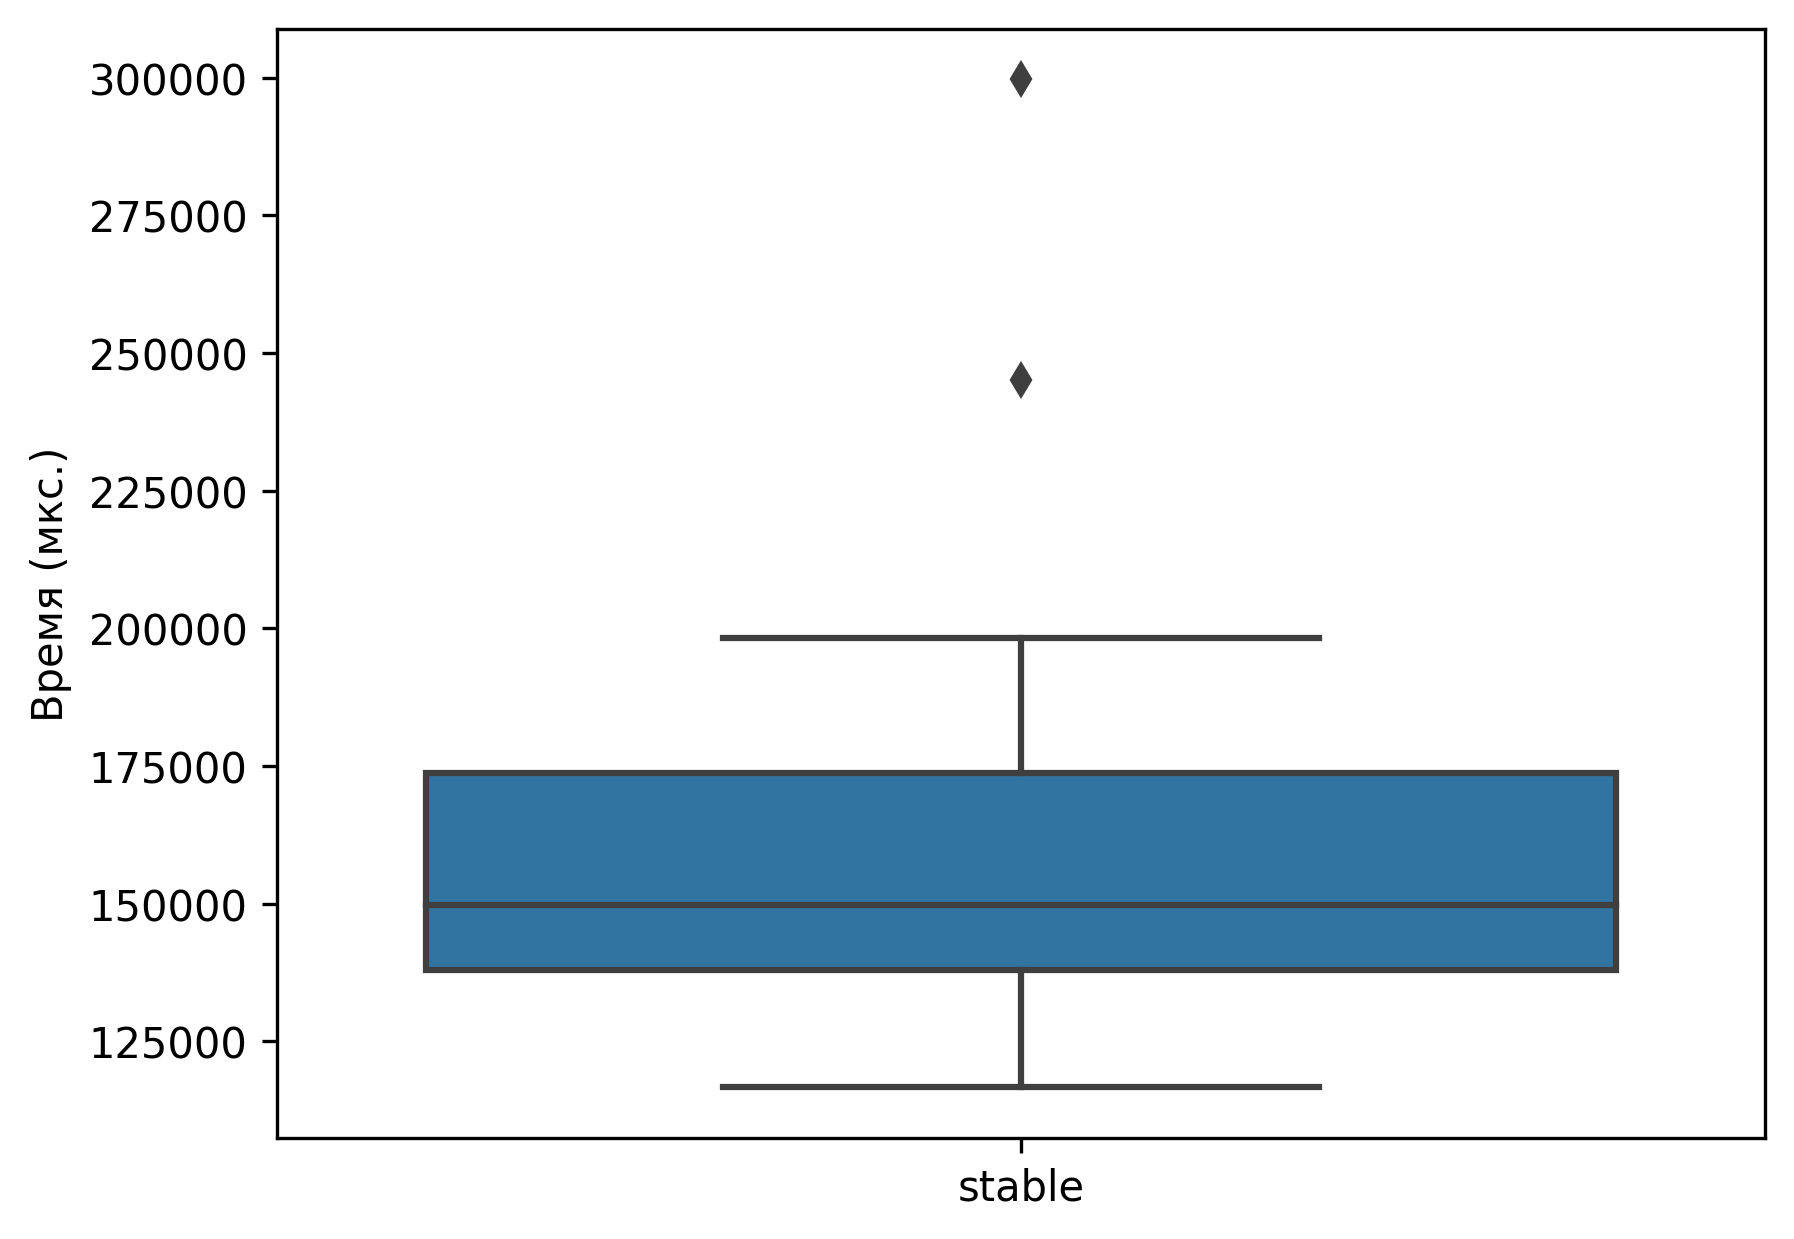
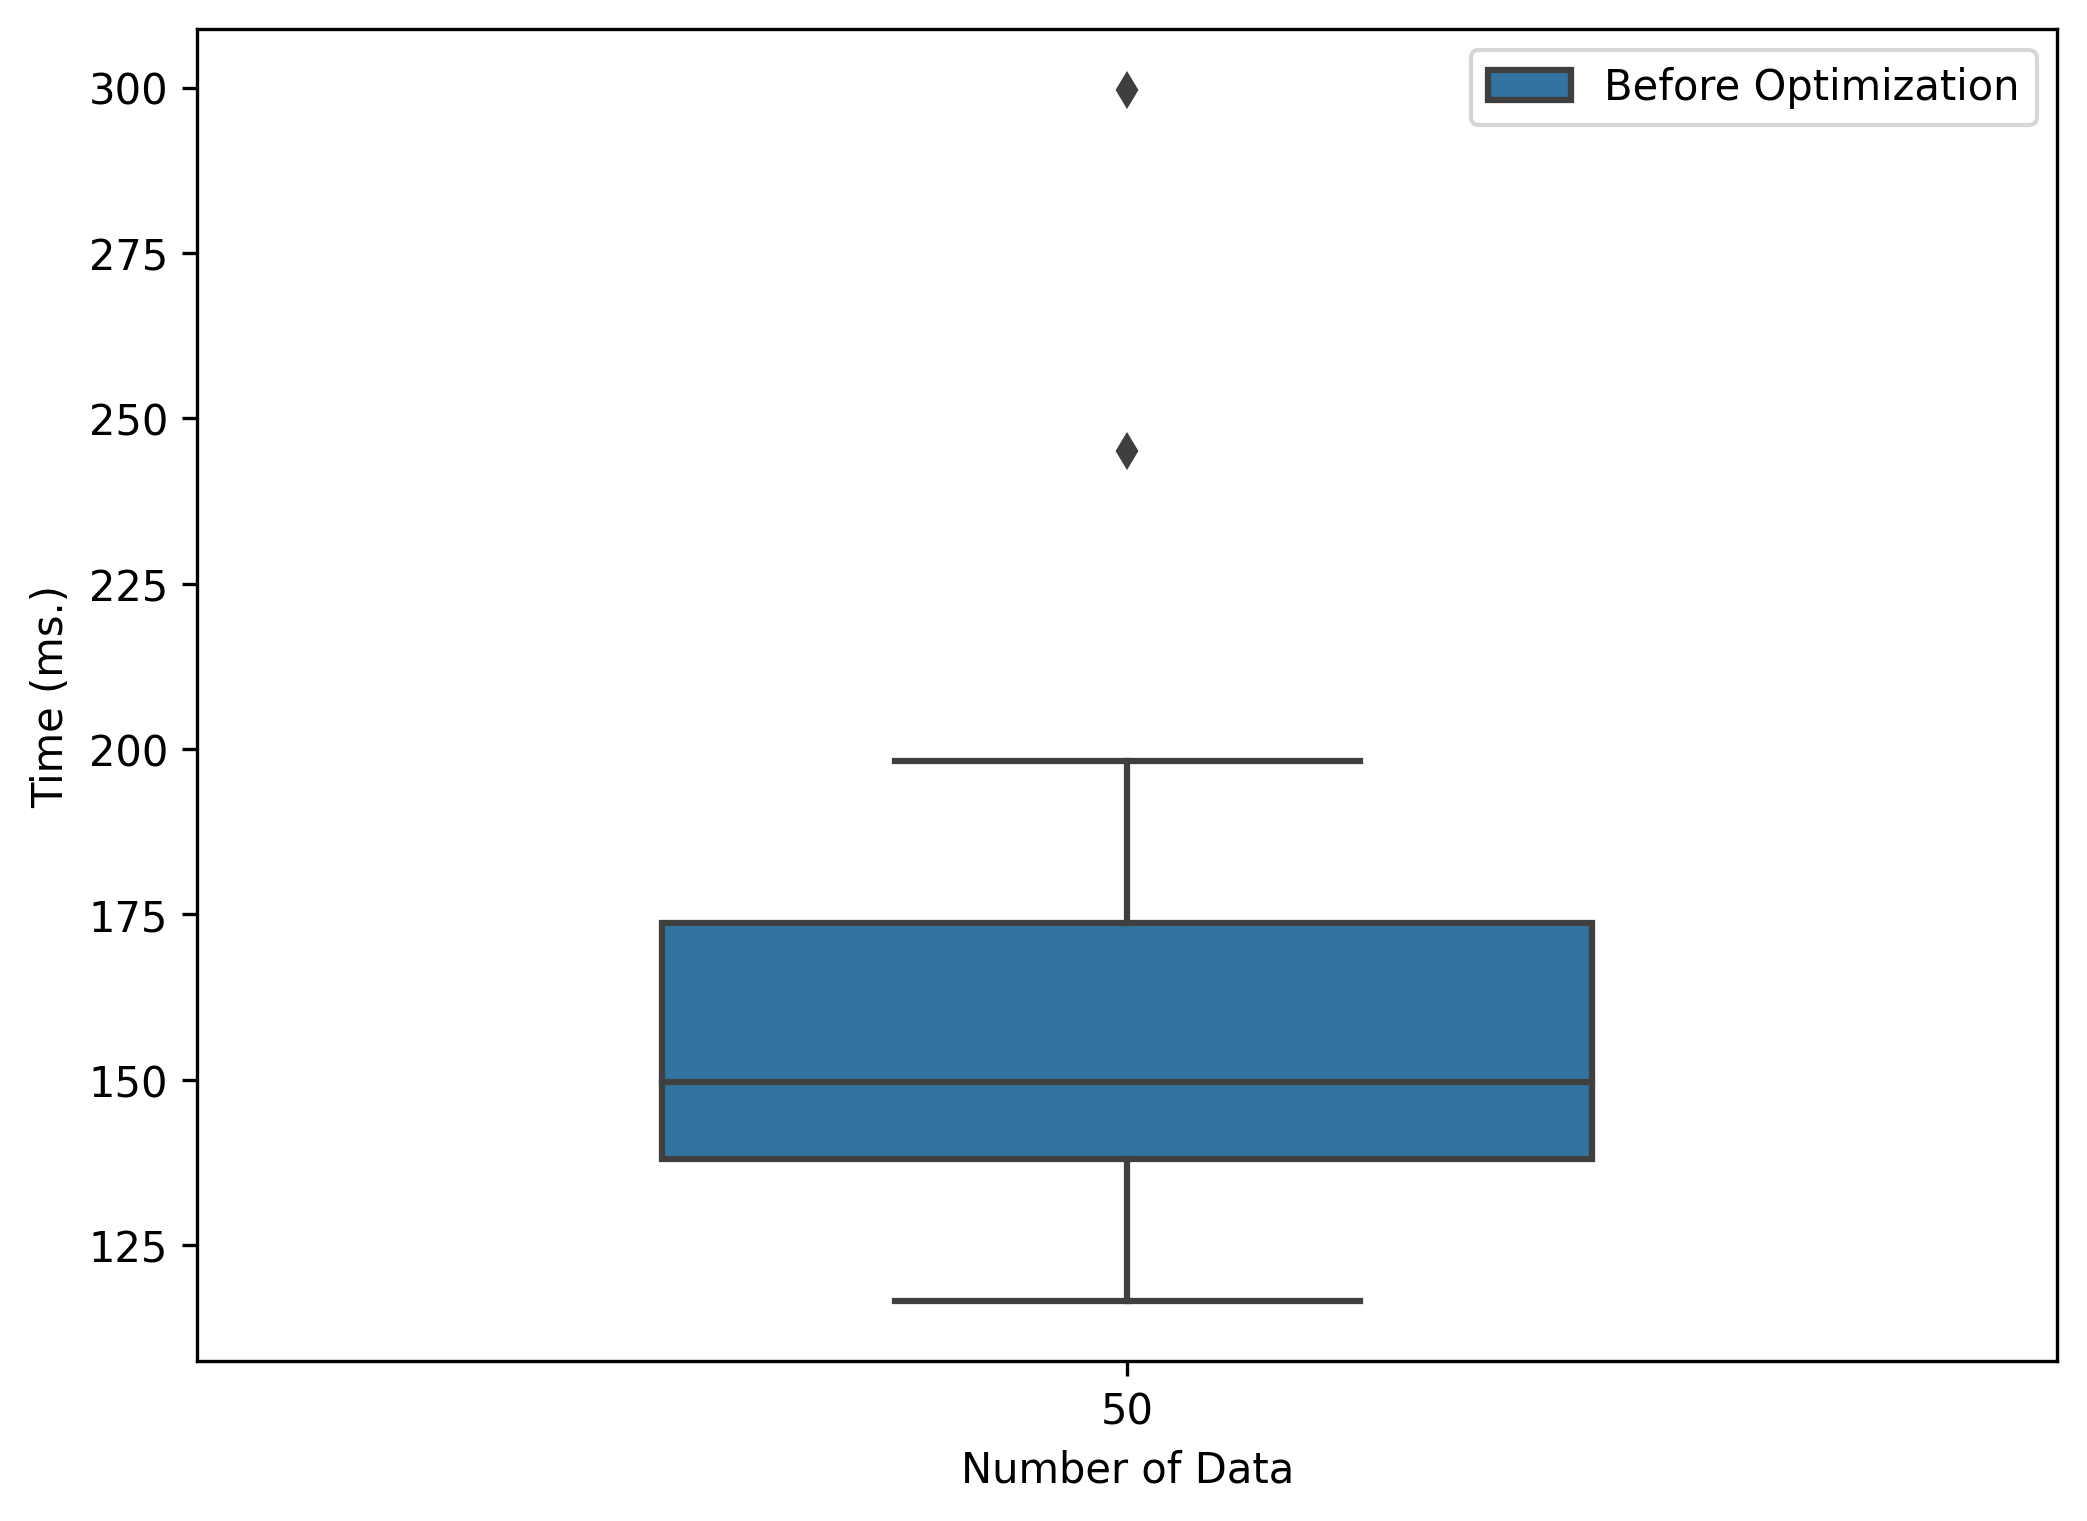
Changed units of measurement, fixed types

diff --git a/benchmark-artifact/cpp-benchmark/benchmark_process_sequence.cpp b/benchmark-artifact/cpp-benchmark/benchmark_process_sequence.cpp
@@ -9,7 +9,7 @@
 
 using uint = unsigned int;
 
-double calculateVariance(const Eigen::VectorXi& data, double mean) {
+double calculateVariance(const Eigen::VectorXd& data, double mean) {
   double sum = 0;
 
   for (auto x : data) {
@@ -29,12 +29,11 @@ int main(int argc, char* argv[]) {
 
   auto start_time = std::chrono::high_resolution_clock::now();
   auto end_time = std::chrono::high_resolution_clock::now();
-  long long time;
 
-  int NUMBER_OF_RUNS = 10;
-  int NUMBER_OF_SNAPSHOT = 50;
+  const int NUMBER_OF_RUNS = 1;
+  const int NUMBER_OF_SNAPSHOT = 50;
 
-  Eigen::VectorXi test_duration = Eigen::VectorXi::Zero(NUMBER_OF_SNAPSHOT);
+  Eigen::VectorXd test_duration = Eigen::VectorXd::Zero(NUMBER_OF_SNAPSHOT);
 
   std::string dataset_path = (argc > 1 ? argv[1] : (data_dir / "depth").string());
 
@@ -55,7 +54,6 @@ int main(int argc, char* argv[]) {
 
   for (uint i = 0; i < NUMBER_OF_SNAPSHOT; ++i) {
     std::cout << "SNAPSHOT #" << i + 1;
-    time = 0;
 
     for (int t = 0; t < NUMBER_OF_RUNS; ++t) {
       start_time = std::chrono::high_resolution_clock::now();
@@ -66,12 +64,10 @@ int main(int argc, char* argv[]) {
 
       end_time = std::chrono::high_resolution_clock::now();
 
-      time += std::chrono::duration_cast<std::chrono::microseconds>(end_time - start_time).count();
+      test_duration[i] += static_cast<double>(std::chrono::duration_cast<std::chrono::milliseconds>(end_time - start_time).count());
     }
 
-    time /= NUMBER_OF_RUNS;
-
-    test_duration[i] = static_cast<int>(time);
+    test_duration[i] /= NUMBER_OF_RUNS;
 
     found_planes = labels.maxCoeff();
     std::cout << ' ' << found_planes << " planes found" << std::endl;
@@ -80,8 +76,8 @@ int main(int argc, char* argv[]) {
       test_duration.cast<float>().transpose(),
       (data_dir / ("process_sequence_" + std::to_string(NUMBER_OF_SNAPSHOT) + "_snapshot.csv")).string());
 
-  long long elapsed_time_min = *std::min_element(test_duration.begin(), test_duration.end());
-  long long elapsed_time_max = *std::max_element(test_duration.begin(), test_duration.end());
+  double elapsed_time_min = *std::min_element(test_duration.begin(), test_duration.end());
+  double elapsed_time_max = *std::max_element(test_duration.begin(), test_duration.end());
   double elapsed_time_mean = std::accumulate(test_duration.begin(), test_duration.end(), 0.0) / NUMBER_OF_SNAPSHOT;
 
   double dispersion = calculateVariance(test_duration, elapsed_time_mean);
@@ -98,12 +94,12 @@ int main(int argc, char* argv[]) {
   std::cout << "Standard error: " << standard_error << '\n';
   std::cout << "Confidence interval (95%): [" << lower_bound << "; " << upper_bound << "]\n\n";
 
-  std::cout << "Elapsed time (ms.) (min): " << elapsed_time_min / 1000 << '\n';
-  std::cout << "Elapsed time (ms.) (max): " << elapsed_time_max / 1000 << '\n';
-  std::cout << "Elapsed time (ms.) (mean): " << elapsed_time_mean / 1000 << '\n';
-  std::cout << "FPS (max): " << 1e6l / elapsed_time_min << '\n';
-  std::cout << "FPS (min): " << 1e6l / elapsed_time_max << '\n';
-  std::cout << "FPS (mean): " << 1e6l / elapsed_time_mean << '\n';
+  std::cout << "Elapsed time (ms.) (min): " << elapsed_time_min << '\n';
+  std::cout << "Elapsed time (ms.) (max): " << elapsed_time_max << '\n';
+  std::cout << "Elapsed time (ms.) (mean): " << elapsed_time_mean << '\n';
+  std::cout << "FPS (max): " << 1000 / elapsed_time_min << '\n';
+  std::cout << "FPS (min): " << 1000 / elapsed_time_max << '\n';
+  std::cout << "FPS (mean): " << 1000 / elapsed_time_mean << '\n';
 
   return 0;
 }

diff --git a/benchmark-artifact/cpp-benchmark/benchmark_process_cloud.cpp b/benchmark-artifact/cpp-benchmark/benchmark_process_cloud.cpp
@@ -29,9 +29,8 @@ int main() {
 
   auto start_time = std::chrono::high_resolution_clock::now();
   auto end_time = std::chrono::high_resolution_clock::now();
-  long long time;
 
-  int NUMBER_OF_RUNS = 20;
+  const int NUMBER_OF_RUNS = 20;
   Eigen::VectorXi test_duration = Eigen::VectorXi::Zero(NUMBER_OF_RUNS);
 
   deplex::config::Config config = deplex::config::Config(config_path.string());
@@ -51,8 +50,7 @@ int main() {
     labels = algorithm.process(pcd_array);
     end_time = std::chrono::high_resolution_clock::now();
 
-    time = std::chrono::duration_cast<std::chrono::microseconds>(end_time - start_time).count();
-    test_duration[i] = static_cast<int>(time);
+    test_duration[i] = static_cast<int>(std::chrono::duration_cast<std::chrono::milliseconds>(end_time - start_time).count());
   }
 
   found_planes = labels.maxCoeff();
@@ -60,7 +58,6 @@ int main() {
   deplex::utils::savePointCloudCSV(test_duration.cast<float>().transpose(), (data_dir / "process_cloud.csv").string());
 
   double elapsed_time_mean = std::accumulate(test_duration.begin(), test_duration.end(), 0.0) / NUMBER_OF_RUNS;
-
   double dispersion = calculateVariance(test_duration, elapsed_time_mean);
   double standard_deviation = sqrt(dispersion);
   double standard_error = standard_deviation / sqrt(NUMBER_OF_RUNS);
@@ -75,8 +72,8 @@ int main() {
   std::cout << "Standard deviation: " << standard_deviation << '\n';
   std::cout << "Standard error: " << standard_error << '\n';
   std::cout << "Confidence interval (95%): [" << lower_bound << "; " << upper_bound << "]\n\n";
-  std::cout << "Elapsed time (ms.): " << elapsed_time_mean / 1000 << '\n';
-  std::cout << "FPS: " << 1e6l / elapsed_time_mean << '\n';
+  std::cout << "Elapsed time (ms.): " << elapsed_time_mean << '\n';
+  std::cout << "FPS: " << 1000 / elapsed_time_mean << '\n';
 
   return 0;
 }
